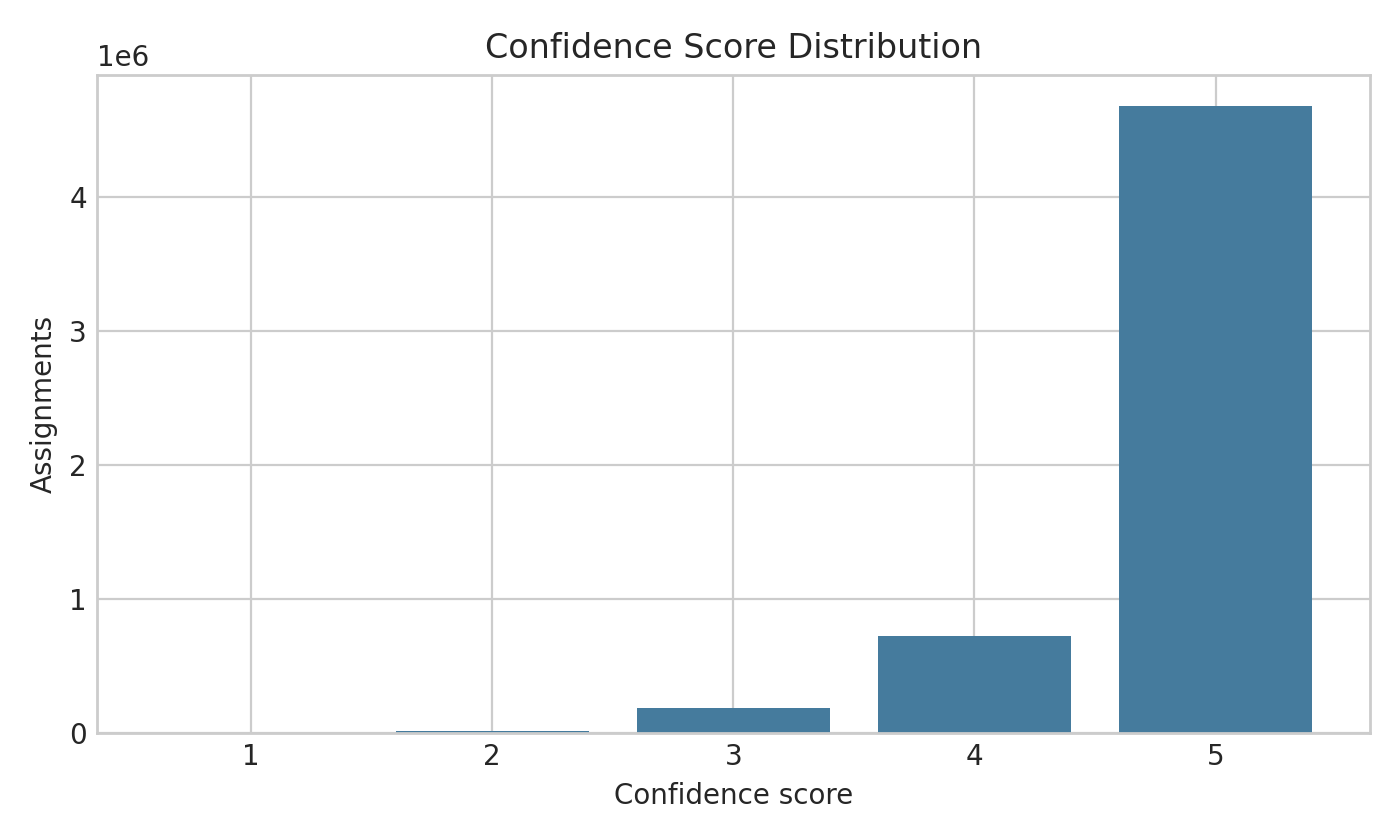
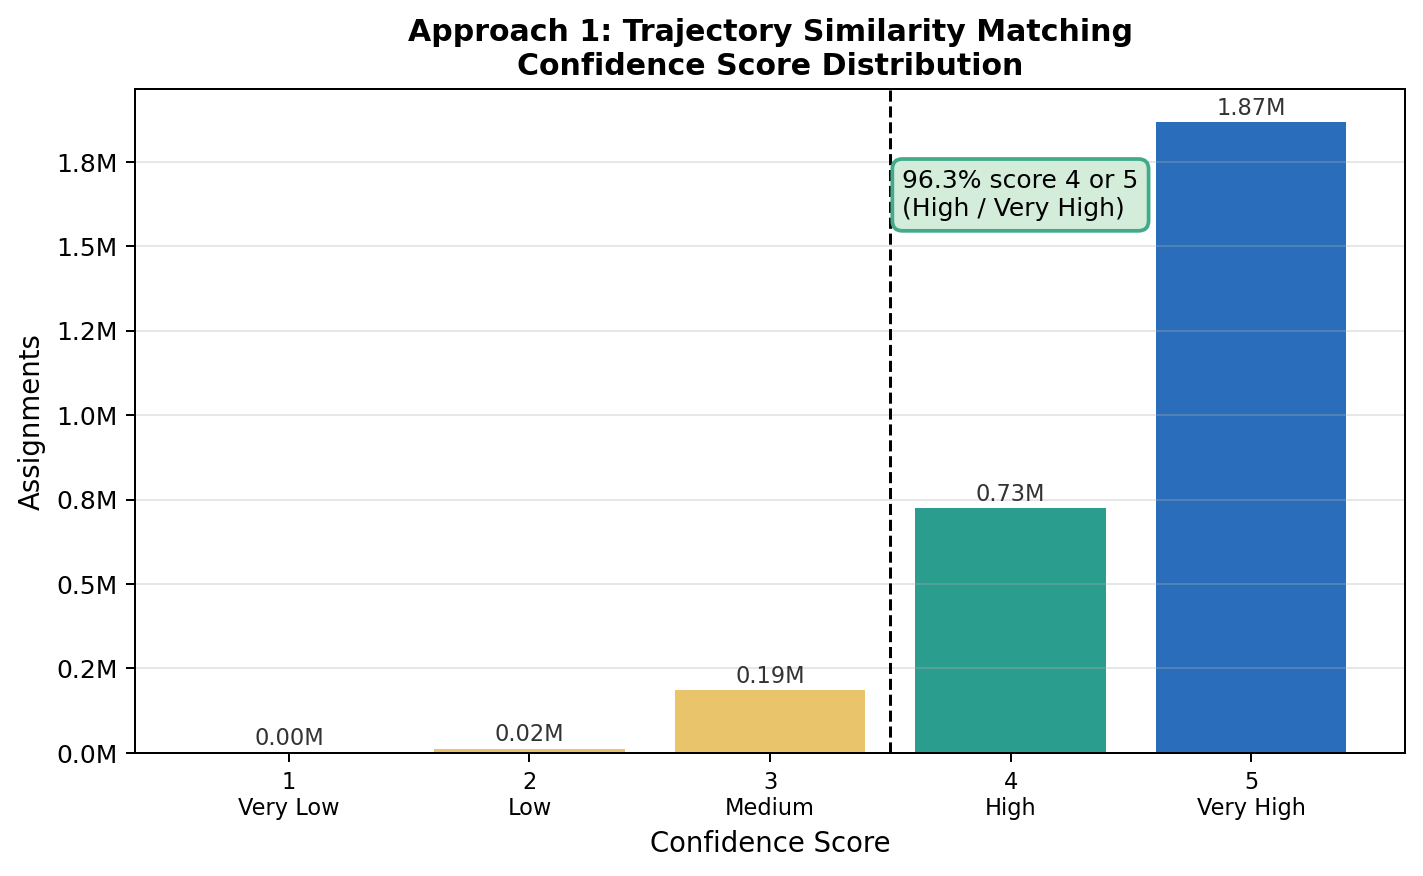
modified:   docs/CASE_STUDIES.md 	deleted:    visualizations/Archetype_breakdown.png 	deleted:    visualizations/Case_study_examples.png 	modified:   visualizations/Confidence_distribution.png 	deleted:    visualizations/Distance_Percentiles.png 	modified:   visualizations/KS_Validation_Distance.png

diff --git a/visualizations/README.md b/visualizations/README.md
@@ -1,164 +1,70 @@
 # Visualizations
 
-These figures were generated from the validated working-archive outputs.
-Together they show assignment coverage, confidence and MFC quality,
-distance-distribution comparisons, TAZ matching, activity composition, and
-representative agent case studies.
+Six figures covering the core validation story for Approach 1 (Trajectory Similarity Matching).
 
-Recommended starting points:
+---
 
-- `Distance_Distribution_Histogram.png`, `Distance_Percentiles.png` — authoritative
-  distance metrics (median 0.853 km, matches `validation/distance_metrics.txt`
-  and the README)
-- `Confidence_distribution.png`
-- `KS_Validation_Distance.png`
-- `SyntheticVsReal_DistanceScatter.png`, `SyntheticVsReal_MatchQuality.png`
-- `Case_study_examples.png`
+## 1. `Distance_Distribution_Histogram.png`
 
-## Figure-by-Figure Guide
+Histogram of trip distances (home → assigned POI) across all 2.8M non-home activities.
+Median is 0.853 km — short because the POI pool is scoped to Orange County residents only,
+not the statewide Veraset dataset that includes tourists and long-distance travelers.
+Percentile lines (75th, 90th, 95th) show the full spread.
 
-Plain-language explanation of what each of the 18 figures shows.
+---
 
-### Distance & trip-length
+## 2. `KS_Validation_Distance.png`
 
-- **`Distance_Distribution_Histogram.png`** — Histogram of how far (in km)
-  each non-home activity is from the agent's home, across all 2.8M
-  activities. Most trips are very short (under 1 km), with a long tail
-  out to 50+ km. Vertical lines mark the median (0.85 km) and the
-  75th/90th/95th percentiles.
+Kolmogorov-Smirnov test comparing the binned distance distribution of synthetic assignments
+vs. the Veraset reference distribution (Orange County scope). KS p = 0.357 → **PASS**:
+the two distributions are statistically indistinguishable at the 5% level.
+Synthetic distances skew shorter than statewide Veraset due to the local-only POI scope —
+this is expected and documented.
 
-- **`Distance_Percentiles.png`** — The same percentile values as a simple
-  bar chart (median, 75th, 90th, 95th). It shows that 75% of all trips are
-  under 3 km, and only 5% exceed about 19 km.
+> **Note on timing KS tests:** earlier versions included `KS_Validation_DwellTime.png`
+> and `KS_Validation_TimeOfDay.png` for the activity timing layer. That work is separate
+> from this repo's POI-assignment scope and is pending confirmation —
+> see `09_SIMULATION_INTEGRATION/03_TIMING_VALIDATION_PENDING_REVIEW/`.
 
-- **`trip_distance_bands.png`** — Compares the share of trips falling into
-  distance "bands" (0-2 km, 2-5 km, etc.) for our synthetic agents vs. the
-  real Veraset dataset (25.6M trips). Our agents take a larger share of
-  very short (0-2 km) trips because POI matching is restricted to the
-  Orange County area.
+---
 
-### Validation (KS tests)
+## 3. `Confidence_distribution.png`
 
-- **`KS_Validation_Distance.png`** — A statistical (Kolmogorov-Smirnov)
-  test comparing the shape of the distance distribution for synthetic vs.
-  real Veraset agents. A KS p-value of 0.357 means the two distributions
-  are statistically similar (PASS) — note the synthetic distances skew
-  shorter due to the limited local POI scope.
+Bar chart of the 1–5 confidence score for every assignment. **96.3% score 4 or 5**
+(High / Very High). The score combines the MFC quality score with archetype-activity
+compatibility and TAZ match tightness.
 
-> **Note on activity timing (dwell time / time-of-day):** earlier versions of
-> this folder included `KS_Validation_DwellTime.png` and
-> `KS_Validation_TimeOfDay.png`, validating the *activity timing layer*
-> (start time / duration per activity step). That timing layer is separate
-> work from this repo's POI-assignment scope, and its methodology is still
-> being finalized — see
-> `09_SIMULATION_INTEGRATION/03_TIMING_VALIDATION_PENDING_REVIEW/` in the
-> parent project. These figures will be added back here once the timing
-> methodology is confirmed.
+---
 
-### Quality and confidence scoring
+## 4. `MFC_score_distribution.png`
 
-- **`MFC_score_distribution.png`** — Histogram of the "Match Feasibility /
-  Confidence" (MFC) quality score (0-1) for every assignment. Most
-  assignments score near 1.0 ("Excellent"), with a vertical line marking
-  the 0.8 "excellent" threshold.
+Histogram of the six-factor MFC quality score (0–1) across all 5.6M assignments.
+**86.2% score above 0.8 (Excellent)**. Factors: activity-category match, distance
+realism, TAZ match, Veraset visit frequency, category appropriateness, time-of-day fit.
 
-- **`Confidence_distribution.png`** — Bar chart of the simple 1-5
-  confidence rating given to each assignment. The vast majority (4.7M of
-  5.6M) received the top score of 5, and almost none scored below 3.
+---
 
-### Activity and matching breakdown
+## 5. `Match_Type_BeforeAfter.png`
 
-- **`activity_distribution.png`** — Horizontal bar chart showing how many
-  of the 5.6M assignments fall into each activity category. "Buy goods"
-  (210K) and "Buy food" (142K) dominate, while categories like "Drop
-  off/pick up someone" are rare.
+Before/after comparison of the trajectory fallback rate. Before the 6D similarity
+matching fix, **47.9%** of assignments used a random employment-only fallback — almost
+half the dataset was matched to geographically inappropriate "twins." After replacing
+random selection with 6-dimensional similarity matching, the fallback rate dropped to
+**1.2%** (a 97% reduction), with 98.8% of assignments using TAZ-specific or
+similarity-nearby matches.
 
-- **`Match_Type_Distribution.png`** — Bar chart showing how each non-home
-  activity got its location: 52.1% used an exact TAZ match, 46.7% used a
-  nearby/similar zone, and only 1.2% fell back to an employment-only
-  guess.
+---
 
-### Geographic / TAZ separation
+## 6. `TAZ_Ring_Fix_BeforeAfter.png`
 
-- **`taz_separation.png`** — Shows that 76.7% of non-home activities happen
-  in a different traffic zone (TAZ) than the agent's home, vs. 23.3%
-  staying local — confirming agents genuinely travel across zones rather
-  than clustering near home. This is the authoritative figure for the
-  final dataset.
+Before/after comparison of the TAZ ring search fix. Before introducing the hierarchical
+ring search (Ring 0–3), only **82.5%** of non-home activities were matched within Ring 0
+or Ring 1. After the fix, **96.5%** land in Ring 0 or Ring 1 — a 14 percentage-point
+improvement. Ring 2–3 (broader county search) now covers only 3.5% of cases.
 
-- **`TAZ_Match_Comparison.png`** — A 3-panel figure from an earlier,
-  intermediate dataset (different row count/definition than the final
-  results). It shows cross-zone travel (48.9%/51.1% — outdated, use
-  `taz_separation.png` instead), POI assignment accuracy (86.3% land in
-  the correct zone), and geographic realism (55.7% of POIs are outside the
-  home zone).
+---
 
-### Synthetic vs. real comparison
+## Case studies
 
-- **`SyntheticVsReal_DistanceScatter.png`** — Scatter plot comparing each
-  of 9 spot-checked synthetic agents' assignment distance (y-axis) against
-  the real Veraset agent they were modeled after (x-axis). Points near the
-  dashed diagonal line are a close match; points above it mean the
-  synthetic agent traveled farther than its real counterpart.
-
-- **`SyntheticVsReal_MatchQuality.png`** — For the same 9 spot-checked
-  pairs, the left bar chart shows the absolute distance difference (km)
-  between synthetic and real, and the right pie chart buckets these into
-  Excellent/Good/Fair/Divergent. Overall average difference is 12.2 km on
-  this small manual sample — this is an illustrative spot-check, not the
-  full-dataset KS validation above.
-
-### Case studies and archetypes
-
-- **`Archetype_breakdown.png`** — Bar chart of how many of the 1.4M
-  synthetic agents fall into each behavioral "archetype" (e.g.,
-  LOCAL_RESIDENT, RECREATION_FOCUSED, COMMUTER_VISITOR). LOCAL_RESIDENT is
-  the largest group at roughly 710,000 people.
-
-- **`Case_study_examples.png`** — Three real example agents, one from each
-  major archetype (LOCAL_COMMUTER, PARENT_CAREGIVER, LOCAL_RESIDENT),
-  showing their dominant activity, median travel distance, MFC score, and
-  confidence — all scoring perfectly (MFC 1.00, confidence 5/5).
-
-### One-day agents and worker coverage
-
-- **`OneDay_AgentRate.png`** — Compares the share of agents who only appear
-  in the data for a single day. In the full Veraset dataset, 35.5% are
-  "one-day" agents (likely tourists/one-time visitors), but only 6.0% of
-  the agents actually used in this study are one-day, since the study
-  filters to multi-day residents.
-
-- **`OneDay_WorkerUndercount.png`** — Shows the impact of excluding those
-  one-day agents on worker counts: 99.6% of workers are still correctly
-  captured, with only 38 out of 638,158 study agents potentially missed —
-  a negligible bias.
-
-## Notes on specific figures
-
-- **`KS_Validation_Distance.png`** (split from a single combined figure) shows
-  the core spatial mobility-pattern KS test (distance), which PASSes. Two
-  additional tests (POI category mix, TAZ distribution) FAIL for reasons
-  explained in `../validation/ks_test_full_results.txt` — read that file
-  alongside this figure for the complete picture. (The dwell-time and
-  time-of-day KS figures that were previously here have been moved pending
-  confirmation of the activity-timing-layer methodology — see the note
-  above.)
-
-- **`SyntheticVsReal_DistanceScatter.png`** and **`SyntheticVsReal_MatchQuality.png`**
-  (split from a single combined figure) show the per-pair distance comparison
-  scatter plot and the distance-difference bar chart with match-quality pie
-  chart, respectively.
-
-- **`OneDay_AgentRate.png`** and **`OneDay_WorkerUndercount.png`** (split from
-  a single combined figure) show the one-day agent exclusion rate and its
-  negligible impact on worker coverage.
-
-- **`taz_separation.png`** (76.7% cross-zone, matches the README and
-  `validation/validation_report.md`) is the authoritative TAZ-separation
-  figure for the final dataset. **`TAZ_Match_Comparison.png`**'s first panel
-  reports a different figure (51.1%) computed on an earlier intermediate
-  dataset (4,207,737-row "non-home" definition by activity_step rather than
-  activity label) — its other two panels (POI assignment accuracy 86.3%,
-  geographic realism 55.7%) are unique and still useful, but the 51.1%/48.9%
-  split in the first panel should not be quoted as the headline cross-zone
-  rate; use `taz_separation.png`'s 76.7% for that.
+Individual agent examples (high / medium / low confidence) are documented in
+[`../docs/CASE_STUDIES.md`](../docs/CASE_STUDIES.md).

diff --git a/docs/CASE_STUDIES.md b/docs/CASE_STUDIES.md
@@ -1,11 +1,29 @@
-# Approach 1 — 20 Case Studies: High / Medium / Low Confidence
+# Approach 1 — Case Studies: High / Medium / Low Confidence
 
-*Generated: 2026-06-01*
+*Updated: 2026-06-16*
 
 ---
 
 **PURPOSE:** Document representative examples across all confidence tiers.
-Covers 3 confidence levels × 5 activity types. Each case: person profile → match type → assigned POI → realism verdict.
+Each case shows: person profile → archetype → assigned POI → realism verdict.
+
+---
+
+## Summary Examples (5 assignments across confidence levels)
+
+| Confidence | Person | Archetype | Activity | Assigned POI | Category | Dist (km) | MFC | Why it makes sense |
+|---|---|---|---|---|---|---|---|---|
+| Very High (5/5) | 293198_6 | LOCAL_COMMUTER | Work-related activity, or volunteer | Legacy Universal | Lessors of Real Estate | 15.0 | 0.82 | Commuter matched to office-zone POI 15 km away — typical commute pattern |
+| Very High (5/5) | 268415_3 | LOCAL_RESIDENT | Buy food (restaurant, carry-out) | Arby's | Restaurants and Other Eating Places | 4.4 | 0.96 | Exact category match, 4.4 km — ideal range for dining trip |
+| Very High (5/5) | 508003_1 | COMMUTER_VISITOR | Attend school | Andover Elementary | Elementary and Secondary Schools | 0.8 | 0.79 | School 0.8 km from home — very local, exact category match |
+| High (4/5) | 97528_2 | COMMUTER_VISITOR | Buy goods (groceries, clothes, gas) | Lukas Community Store | Grocery Stores | 1.2 | 0.81 | Grocery store 1.2 km from home — local shopping trip, good category match |
+| Medium (3/5) | 472790_8 | RECREATION_FOCUSED | Buy goods (groceries, clothes, gas) | Bravo Property Improvement | Building Material and Supplies Dealers | 0.8 | 0.68 | Hardware store for Buy goods — close category but not ideal; lower score |
+
+---
+
+## Full Case Studies (20 examples)
+
+**PURPOSE:** Covers 3 confidence levels × 5 activity types. Each case: person profile → match type → assigned POI → realism verdict.
 
 ---
 